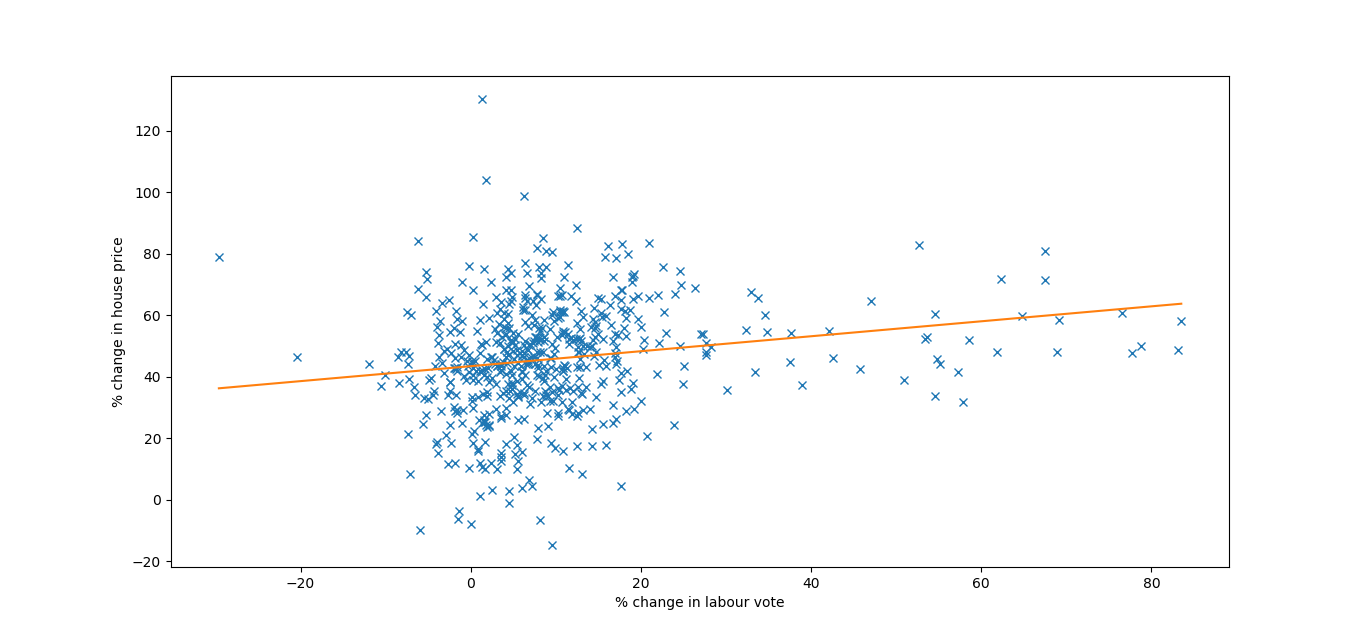
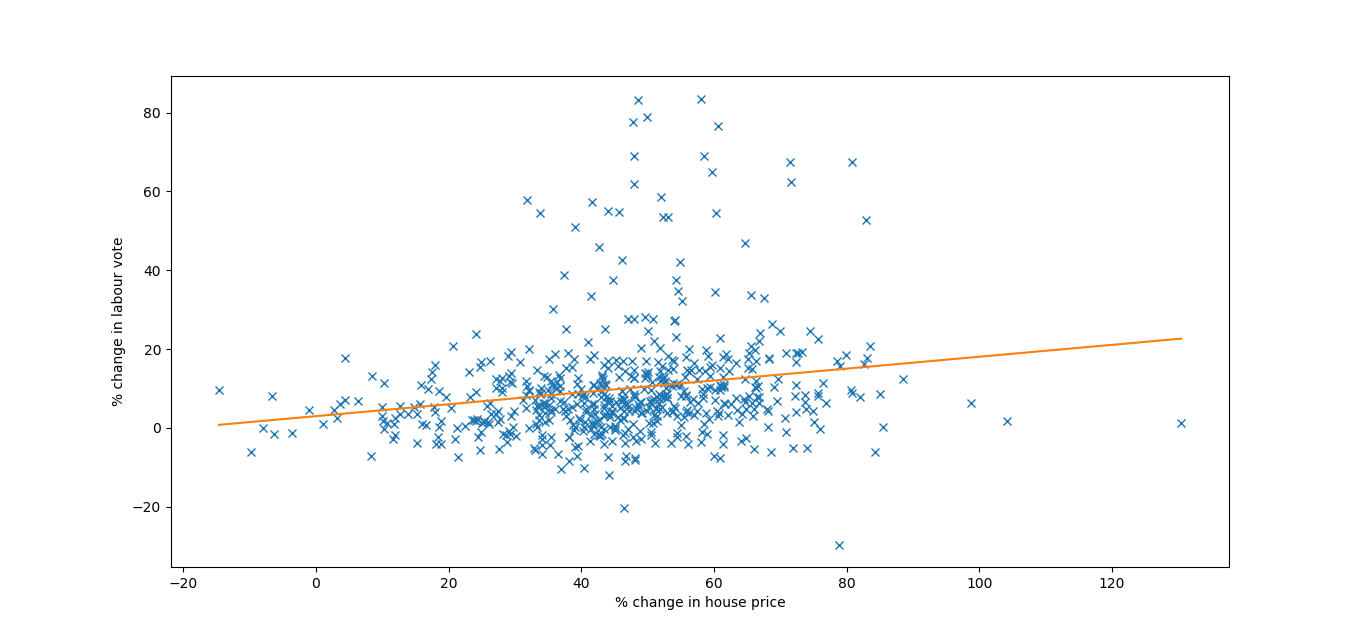
Reversed the columns on the plot so that Labout vote changes is on the y-axis

diff --git a/checkHousePricesAgainstLabourPercentChange.py b/checkHousePricesAgainstLabourPercentChange.py
@@ -26,7 +26,7 @@ for entry in lmhp:
     wardName = entry[0] + ": " + entry[1]
     if entry[8] != 0:
         if wardName in wardToLPC:
-            ldata.append((wardToLPC[wardName],float(entry[8])))
+            ldata.append((float(entry[8]),wardToLPC[wardName]))
 
 data = array(ldata)
 
@@ -47,8 +47,8 @@ ys = xs * lineFit[0] + lineFit[1]
 
 plot (xs,ys)
 
-xlabel ('% change in labour vote')
-ylabel ('% change in house price')
+xlabel ('% change in house price')
+ylabel ('% change in labour vote')
 show()
 
 
